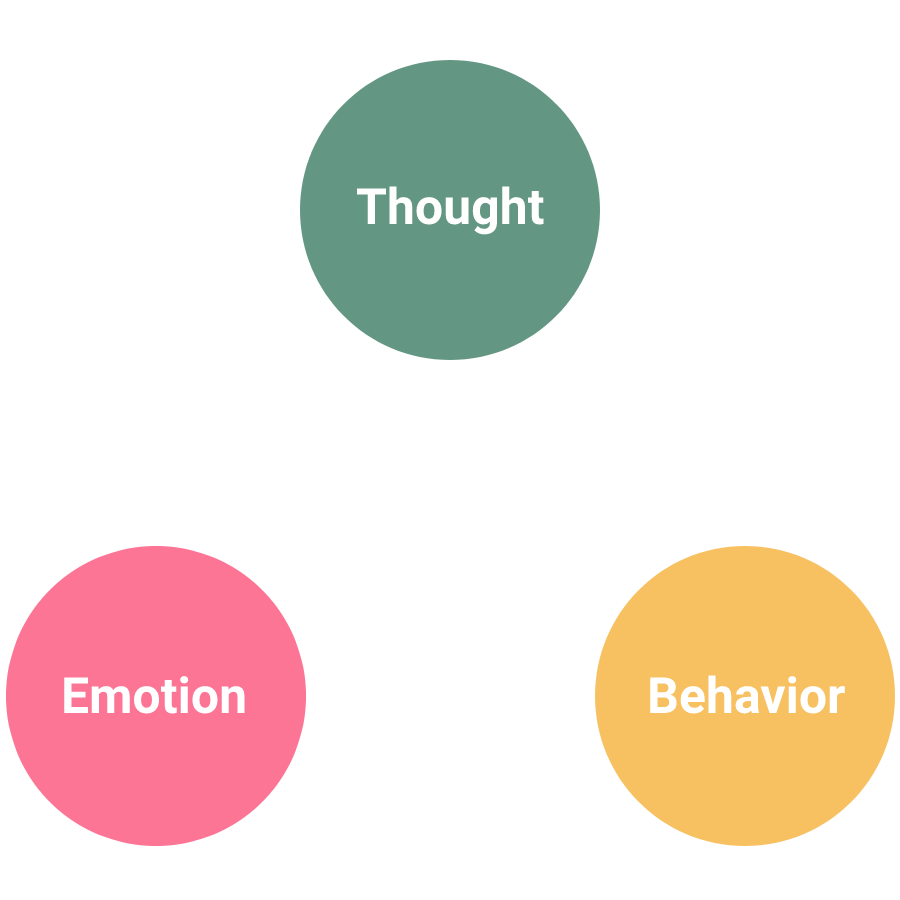
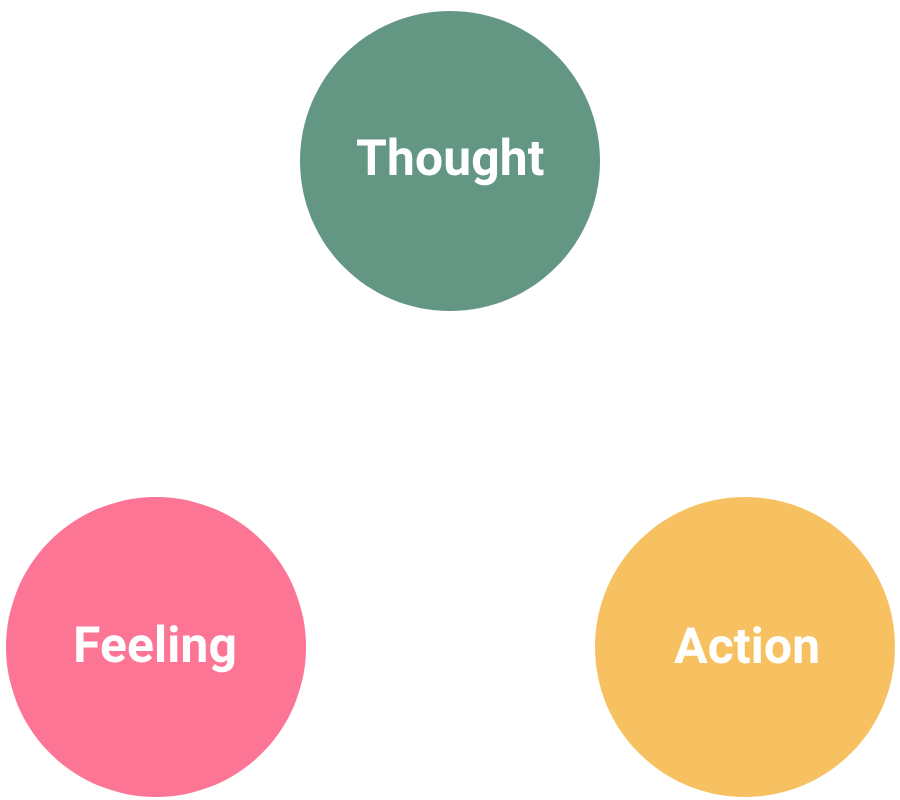
Changing language in questions/instructions according to feedback

diff --git a/lib/screens/CBT/cbt_start_screen.dart b/lib/screens/CBT/cbt_start_screen.dart
@@ -21,26 +21,48 @@ class CBTStartScreen extends StatelessWidget {
         alignment: Alignment(0, -0.5),
         padding: EdgeInsets.fromLTRB(
             getProportionateScreenWidth(16),
-            getProportionateScreenHeight(16),
+            getProportionateScreenHeight(0),
             getProportionateScreenWidth(16),
             getProportionateScreenHeight(16)), //make proportional
         child: SafeArea(
           child: Column(children: [
             Text(
-                'Sample[Cognitive behavioral therapy (CBT) is a type of psychotherapeutic treatment that helps people learn how to identify and change destructive or disturbing thought patterns that have a negative influence on behavior and emotions.'
-                '\n\nCognitive behavioral therapy focuses on changing the automatic negative thoughts that can contribute to and worsen emotional difficulties, depression, and anxiety. These spontaneous negative thoughts have a detrimental influence on mood.'
-                '\n\nThrough CBT, these thoughts are identified, challenged, and replaced with more objective, realistic thoughts.]',
+                'Everyone experiences stressful moments and difficult feelings. However, there are skills you can ' +
+                'learn to deal with these experiences that can help you to take control and feel better, both in the ' +
+                'present and in the future.',
                 textAlign: TextAlign.center,
                 style: TextStyle(
                     color: pureWhite,
                     fontSize: getProportionateScreenWidth(14))),
-            Expanded(
-                child: Container(
-                    padding: EdgeInsets.symmetric(
-                        vertical: getProportionateScreenHeight(16)),
-                    child: Image.asset('assets/images/CBTDiagram.png',
-                        width: getProportionateScreenWidth(250),
-                        height: getProportionateScreenHeight(250)))),
+            Row(
+              children: [ Container(
+                width: getProportionateScreenWidth(160),
+                child: Text(
+                        '\nCognitive Behavioral Therapy (CBT) is a form of therapy that can help you learn to manage ' +
+                        'difficult experiences by focusing on how thoughts, feelings, and actions are connected. CBT can ' +
+                        'help you change your thoughts in order to positively affect your feelings and actions.\n',
+                    textAlign: TextAlign.center,
+                    style: TextStyle(
+                        color: pureWhite,
+                        fontSize: getProportionateScreenWidth(14))),
+              ),Expanded(
+                  child: Container(
+                      padding: EdgeInsets.only(
+                          left: getProportionateScreenWidth(8)),
+                      child: Image.asset('assets/images/CBTDiagram.png',
+                          width: getProportionateScreenWidth(208),
+                          height: getProportionateScreenHeight(185)))),]
+            ),
+            Text('A lot of the negative, stressful thoughts that pop into our heads are not realistic. Thankfully, we ' +
+                    'don’t have to believe everything these thoughts tell us! CBT will teach you that recognizing and ' +
+                    'changing negative, unhelpful thought patterns can help you relax, decrease difficult feelings, and ' +
+                    'take actions that will make life better.\n\n' +
+                    'If you’re ready to get started, click the START button',
+                textAlign: TextAlign.center,
+                style: TextStyle(
+                    color: pureWhite,
+                    fontSize: getProportionateScreenWidth(14))),
+            Spacer(),
             ElevatedButton(
               onPressed: () {
                 Navigator.push(context,
@@ -62,7 +84,7 @@ class CBTStartScreen extends StatelessWidget {
               child: Text(
                   '**Disclaimer: these data are not actively being monitored. If you’re feeling like you need help, please reach out to your healthcare provider. You can also reach out 24 hours a day, 7 days a week to NYC Well for counseling and mental health support via phone, text, or call. Their services can be accessed at https://nycwell.cityofnewyork.us/en/',
                   style: TextStyle(
-                      fontSize: getProportionateScreenWidth(10),
+                      fontSize: getProportionateScreenWidth(8),
                       color: Colors.grey)),
             )
           ]),

diff --git a/lib/screens/Login/log_in_screen.dart b/lib/screens/Login/log_in_screen.dart
@@ -1,5 +1,3 @@
-import 'package:arc_app/screens/CBT/cbt_start_screen.dart';
-import 'package:arc_app/screens/Dashboard/dashboard_screen.dart';
 import 'package:arc_app/screens/Login/log_in_card.dart';
 import 'package:arc_app/size_config.dart';
 import 'package:flutter/material.dart';
@@ -10,49 +8,49 @@ class LogInScreen extends StatelessWidget {
   @override
   Widget build(BuildContext context) {
     return Scaffold(
-        body: Container(
-      decoration: BoxDecoration(
-          image: DecorationImage(
-              image: AssetImage('assets/images/background.jpg'),
-              fit: BoxFit.cover)),
-      child: SafeArea(
-          child: Center(
-              child: SingleChildScrollView(
-                child: Padding(
-                      padding: EdgeInsets.all(getProportionateScreenHeight(30.0)),
-                      child: Column(
-                        mainAxisSize: MainAxisSize.min,
-                        children: <Widget>[
-                          Container(
-                  child: Padding(
-                    padding: EdgeInsets.fromLTRB(
-                        getProportionateScreenWidth(0),
-                        getProportionateScreenHeight(100.0),
-                        getProportionateScreenWidth(0),
-                        getProportionateScreenHeight(20.0)),
-                    child: Text("Log in to your account",
-                        style: TextStyle(
-                            color: Colors.white,
-                            fontSize: 30.0,
-                            fontWeight: FontWeight.bold,
-                            shadows: <Shadow>[
-                              Shadow(
-                                offset: Offset(getProportionateScreenWidth(0),
-                                    getProportionateScreenHeight(4)),
-                                blurRadius: getProportionateScreenWidth(35.0),
-                                color: Color.fromARGB(255, 0, 0, 0),
-                              )
-                            ])),
-                  )),
-                  Padding(padding: EdgeInsets.all(getProportionateScreenHeight(20.0))),
-                          LogInCard()
-                        ],
-                      ),
-                    ),
-              ))),
-    ),
-    floatingActionButton: FloatingActionButton(onPressed: () { Navigator.pushNamed(
-        context, Dashboard.routeName); },
-    child:Text('CBT')),);
+      body: Container(
+        decoration: BoxDecoration(
+            image: DecorationImage(
+                image: AssetImage('assets/images/background.jpg'),
+                fit: BoxFit.cover)),
+        child: SafeArea(
+            child: Center(
+                child: SingleChildScrollView(
+          child: Padding(
+            padding: EdgeInsets.all(getProportionateScreenHeight(30.0)),
+            child: Column(
+              mainAxisSize: MainAxisSize.min,
+              children: <Widget>[
+                Container(
+                    child: Padding(
+                  padding: EdgeInsets.fromLTRB(
+                      getProportionateScreenWidth(0),
+                      getProportionateScreenHeight(100.0),
+                      getProportionateScreenWidth(0),
+                      getProportionateScreenHeight(20.0)),
+                  child: Text("Log in to your account",
+                      style: TextStyle(
+                          color: Colors.white,
+                          fontSize: 30.0,
+                          fontWeight: FontWeight.bold,
+                          shadows: <Shadow>[
+                            Shadow(
+                              offset: Offset(getProportionateScreenWidth(0),
+                                  getProportionateScreenHeight(4)),
+                              blurRadius: getProportionateScreenWidth(35.0),
+                              color: Color.fromARGB(255, 0, 0, 0),
+                            )
+                          ])),
+                )),
+                Padding(
+                    padding:
+                        EdgeInsets.all(getProportionateScreenHeight(20.0))),
+                LogInCard()
+              ],
+            ),
+          ),
+        ))),
+      ),
+    );
   }
 }

diff --git a/lib/screens/CBT/cbt_emotions.dart b/lib/screens/CBT/cbt_emotions.dart
@@ -26,10 +26,10 @@ class _EmotionBodyState extends State<EmotionBody> {
     'Fear',
     'Sadness',
     'Anger',
-    'Guilt',
-    'Irritation',
-    'Disgust',
-    'Embarrassment',
+    'Shame',
+    'Jealousy',
+    'Envy',
+    'Worthlessness',
     'Other:    '
   ];
   String error = '';
@@ -56,7 +56,7 @@ class _EmotionBodyState extends State<EmotionBody> {
         child: ListView(
           children: [
             Text(
-                  'What unpleasant emotion(s) are you feeling?',
+                  'What difficult feeling(s) are you experiencing?',
                   style: TextStyle(
                       fontSize: getProportionateScreenWidth(20),
                       fontWeight: FontWeight.w600,
@@ -178,7 +178,7 @@ class _EmotionBodyState extends State<EmotionBody> {
   Widget sliderInstructions() {
     if (checkedEmotions.isEmpty) return Text('');
     return Text(
-      'On a scale of 0-10, how intense is each emotion?',
+      'On a scale of 0-10, how intense is each feeling?',
       style: TextStyle(
           fontSize: getProportionateScreenWidth(20),
           fontWeight: FontWeight.w600,
@@ -215,20 +215,20 @@ class _EmotionBodyState extends State<EmotionBody> {
               icon: Icon(Icons.arrow_forward_ios),
               onPressed: () {
                 if (checkedEmotions.isEmpty) {
-                  error = 'Please select an emotion';
+                  error = 'Please select a feeling';
                   setState(() {});
                   return;
                 }
-              //User user = FirebaseAuth.instance.currentUser!;
-               // Map<String,double> emotionData = new Map();
-             //   for(Emotion e in checkedEmotions)
-              //    {
-             //       emotionData[e.name] = e.currentEmotionValue;
-            //      }
+              User user = FirebaseAuth.instance.currentUser!;
+                Map<String,double> emotionData = new Map();
+                for(Emotion e in checkedEmotions)
+                 {
+                    emotionData[e.name] = e.currentEmotionValue;
+                 }
               if (dataKey == null)
                   dataKey = ref.push().key;
-              //  ref.child(user.uid).child("emotion-data").child(dataKey!).child('before').set(emotionData);
-             //   ref.child(user.uid).child("emotion-data").child(dataKey!).child('beforeTime').set(DateTime.now().toString());
+              ref.child(user.uid).child("emotion-data:").child(dataKey!).child('before').set(emotionData);
+             ref.child(user.uid).child("emotion-data:").child(dataKey!).child('beforeTime').set(DateTime.now().toString());
 
 
 

diff --git a/lib/screens/CBT/cbt_thoughtdistortions.dart b/lib/screens/CBT/cbt_thoughtdistortions.dart
@@ -155,7 +155,7 @@ class _Distortions extends State<ThoughtDistortion>{
              Container(
            child:
         Text(
-           'Which cognitive distortion(s) did you make?',
+           'Select Cognitive Distortions:',
            style: TextStyle(
                fontSize: getProportionateScreenWidth(20),
                fontWeight: FontWeight.w600,
@@ -163,7 +163,21 @@ class _Distortions extends State<ThoughtDistortion>{
            textAlign: TextAlign.center,
 
          ),),
-        SizedBox(height:20),
+             SizedBox(height:getProportionateScreenHeight(4)),
+             Padding(
+               padding: EdgeInsets.symmetric(horizontal: getProportionateScreenWidth(13)),
+               child: Text(
+                     'Click on the picture of a cognitive distortion to read its description. If you think the '
+                     'distortion applies to your current thoughts, mark the box below it with a check mark.',
+                 style: TextStyle(
+                     fontSize: getProportionateScreenWidth(14),
+                     //fontWeight: FontWeight.w600,
+                     color: primary),
+                 textAlign: TextAlign.center,
+
+               ),
+             ),
+        SizedBox(height:getProportionateScreenHeight(20)),
        Container(
 
 
@@ -191,7 +205,7 @@ class _Distortions extends State<ThoughtDistortion>{
                    },
 
                    child: ClipRRect(
-                     borderRadius: BorderRadius.circular(25),
+                     //borderRadius: BorderRadius.circular(25),
                      child:
                   Image.asset('assets/images/allornoth.jpg', width: getProportionateScreenWidth(70),
                  height: getProportionateScreenHeight(70)), ),),

diff --git a/lib/screens/CBT/cbt_outcome.dart b/lib/screens/CBT/cbt_outcome.dart
@@ -37,10 +37,14 @@ class _OutcomeBodyState extends State<OutcomeBody> {
     'Fear',
     'Sadness',
     'Anger',
-    'Guilt',
-    'Irritation',
-    'Disgust',
-    'Embarrassment',
+    'Shame',
+    'Jealousy',
+    'Envy',
+    'Worthlessness',
+    'Happiness',
+    'Calmness',
+    'Confidence',
+    'Surprise',
     'Other:    '
   ];
   String error = '';
@@ -281,15 +285,15 @@ class _OutcomeBodyState extends State<OutcomeBody> {
             return;
           }
 
-          //User user = FirebaseAuth.instance.currentUser!;
-          //Map<String,double> emotionData = new Map();
-          //for(Emotion e in checkedEmotions)
-         // {
-         //   emotionData[e.name] = e.currentEmotionValue;
-          //}
+          User user = FirebaseAuth.instance.currentUser!;
+          Map<String,double> emotionData = new Map();
+          for(Emotion e in checkedEmotions)
+          {
+           emotionData[e.name] = e.currentEmotionValue;
+          }
 
-          //ref.child(user.uid).child("emotion-data").child(dataKey).child('after').set(emotionData);
-          //ref.child(user.uid).child("emotion-data").child(dataKey).child('afterTime').set(DateTime.now().toString());
+          ref.child(user.uid).child("emotion-data:").child(dataKey).child('after').set(emotionData);
+          ref.child(user.uid).child("emotion-data:").child(dataKey).child('afterTime').set(DateTime.now().toString());
           //probably also need some communication with the rest of the app that cbt
           //was completed for timeline
           Navigator.push(context,

diff --git a/lib/screens/CBT/cbt_response.dart b/lib/screens/CBT/cbt_response.dart
@@ -106,9 +106,13 @@ class _ResponseBodyState extends State<ResponseBody> {
           alignment: Alignment(-1, 0),
           padding: EdgeInsets.only(left: getProportionateScreenWidth(16)),
           child: Text(
-              '• Insert question here?\n'
-              '• Insert another question here?\n'
-              '• More questions here?',
+              '1) What is the evidence that the automatic thought is true? Not true?\n'
+              '2) Is there an alternative explanation?\n'
+              '3) What’s the worst that could happen? Could I live through it? What’s the best that could happen? '
+                  'What’s the most realistic outcome?\n'
+              '4) What’s the effect of my believing the automatic thought? What could be the effect of changing my thinking?\n'
+              '5) What should I do about it?\n'
+              '6) If ______ (friend’s name) was in the situation and had this thought, what would I tell them?',
               style: TextStyle(
                   color: Colors.grey,
                   fontSize: getProportionateScreenWidth(14))),

diff --git a/lib/screens/CBT/cbt_exit.dart b/lib/screens/CBT/cbt_exit.dart
@@ -25,7 +25,7 @@ class CBTExit extends StatelessWidget {
                         height: getProportionateScreenHeight(250)),
             SizedBox(height: getProportionateScreenHeight(20)),
             Text(
-                  'Thank you for completing the CBT module!',
+                  'Thank you for completing the CBT-based module!',
                   textAlign: TextAlign.center,
                   style: TextStyle(
                       color: pureWhite,
@@ -35,7 +35,7 @@ class CBTExit extends StatelessWidget {
             SizedBox(height: getProportionateScreenHeight(40)),
 
             Text(
-                  'Please feel free to return to this module anytime you are feeling stressed, depressed, or anxious.',
+                  'Please feel free to return and complete the module again anytime you are feeling stressed, depressed, or anxious.',
                   textAlign: TextAlign.center,
                   style: TextStyle(
                       color: pureWhite,

diff --git a/lib/screens/CBT/cbt_situation.dart b/lib/screens/CBT/cbt_situation.dart
@@ -25,13 +25,10 @@ class SensationBody extends StatefulWidget {
 
 class _SensationBody extends State<SensationBody> {
   final List<String> sensationNames = [
-    'Nausea',
-    'Headache',
-    'Insomnia',
-    'Fatigue',
+    'Nausea/Pit in stomach',
     'Shortness of breath',
     'Sweating',
-    'Chest pain',
+    'Chest pain/Racing heart',
     'Trembling/Shaking',
     'Other:    ',
   ];
@@ -91,7 +88,7 @@ class _SensationBody extends State<SensationBody> {
               SizedBox(height: getProportionateScreenHeight(20)),
               Container(
                   child: Text(
-                    'What (if any) distressing physical sensations did you have?',
+                    'What (if any) distressing physical feelings did you have?',
                     style: TextStyle(
                         fontSize: getProportionateScreenWidth(18),
                         fontWeight: FontWeight.w600,

diff --git a/lib/screens/CBT/cbt_thoughts.dart b/lib/screens/CBT/cbt_thoughts.dart
@@ -45,7 +45,7 @@ class _ThoughtsBodyState extends State<ThoughtsBody> {
             children: [
               Container(
                   child: Text(
-                    'What thought(s) and/or image(s) went through your mind?',
+                    'What automatic thought(s) or image(s) went through your mind?',
                     style: TextStyle(
                         fontSize: getProportionateScreenWidth(20),
                         fontWeight: FontWeight.w600,
